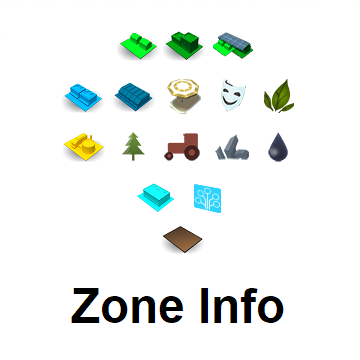
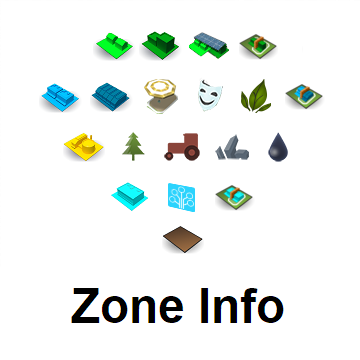
Version 1.7

Changed region(s): [[0.0917, 0.2139, 0.9167, 0.3361], [0.2444, 0.0917, 0.7639, 0.1833], [0.3056, 0.4889, 0.7028, 0.6111]]

diff --git a/ZoneInfoPanel.cs b/ZoneInfoPanel.cs
@@ -27,6 +27,7 @@ namespace ZoneInfo
             ResidentialGenericLow,
             ResidentialGenericHigh,
             ResidentialSelfSuff,
+            ResidentialWallToWall,
             ResidentialSubtotal,
 
             CommercialGenericLow,
@@ -34,6 +35,7 @@ namespace ZoneInfo
             CommercialTourism,
             CommercialLeisure,
             CommercialOrganic,
+            CommercialWallToWall,
             CommercialSubtotal,
 
             IndustrialGeneric,
@@ -45,6 +47,7 @@ namespace ZoneInfo
 
             OfficeGeneric,
             OfficeITCluster,
+            OfficelWallToWall,
             OfficeSubtotal,
 
             Unzoned,
@@ -59,14 +62,16 @@ namespace ZoneInfo
         /// </summary>
         private class SquareCount
         {
+            // get the maximum allowed districts based on the buffer size (or the constant if the buffer size is not available)
             // +1 to make room for entry for Entire City
-            private const int MaxDistricts = DistrictManager.MAX_DISTRICT_COUNT + 1;
+            private static readonly int maxDistricts = ((DistrictManager.exists && DistrictManager.instance.m_districts != null && DistrictManager.instance.m_districts.m_buffer != null) ?
+                DistrictManager.instance.m_districts.m_buffer.Length : DistrictManager.MAX_DISTRICT_COUNT) + 1;
 
             // the 3 counts for a data row
             // index into each array is district ID
-            public int[] built = new int[MaxDistricts];
-            public int[] empty = new int[MaxDistricts];
-            public int[] total = new int[MaxDistricts];
+            public int[] built = new int[maxDistricts];
+            public int[] empty = new int[maxDistricts];
+            public int[] total = new int[maxDistricts];
 
             /// <summary>
             /// increment the counts for the specified district and for the Entire City
@@ -95,7 +100,7 @@ namespace ZoneInfo
             /// </summary>
             public void Copy(SquareCount from)
             {
-                for (int districtID = 0; districtID < MaxDistricts; districtID++)
+                for (int districtID = 0; districtID < maxDistricts; districtID++)
                 {
                     built[districtID] = from.built[districtID];
                     empty[districtID] = from.empty[districtID];
@@ -108,7 +113,7 @@ namespace ZoneInfo
             /// </summary>
             public void Reset()
             {
-                for (int districtID = 0; districtID < MaxDistricts; districtID++)
+                for (int districtID = 0; districtID < maxDistricts; districtID++)
                 {
                     built[districtID] = 0;
                     empty[districtID] = 0;
@@ -270,44 +275,49 @@ namespace ZoneInfo
                 }
 
                 // get DLC flags
-                bool dlcBaseGame    = true;
-                bool dlcAfterDark   = SteamHelper.IsDLCOwned(SteamHelper.DLC.AfterDarkDLC);
-                bool dlcGreenCities = SteamHelper.IsDLCOwned(SteamHelper.DLC.GreenCitiesDLC);
-                
+                bool dlcBaseGame         = true;
+                bool dlcAfterDark        = SteamHelper.IsDLCOwned(SteamHelper.DLC.AfterDarkDLC);
+                bool dlcGreenCities      = SteamHelper.IsDLCOwned(SteamHelper.DLC.GreenCitiesDLC);
+                bool dlcPlazasPromenades = SteamHelper.IsDLCOwned(SteamHelper.DLC.PlazasAndPromenadesDLC);
+
                 // create each UI square count row based on DLC
                 top += 5f;
                 const float SectionSpacing = 10f;
-                if (dlcBaseGame   ) { if (!CreateUISquareCount(Zone.ResidentialGenericLow,  "ResidentialLow",      "Residential Low Density",  zoneAtlas, ref top)) return; }
-                if (dlcBaseGame   ) { if (!CreateUISquareCount(Zone.ResidentialGenericHigh, "ResidentialHigh",     "Residential High Density", zoneAtlas, ref top)) return; }
-                if (dlcGreenCities) { if (!CreateUISquareCount(Zone.ResidentialSelfSuff,    "ResidentialSelfSuff", "Residential Self-Suff",    zoneAtlas, ref top)) return; }
-                if (dlcBaseGame   ) { if (!CreateUISquareCount(Zone.ResidentialSubtotal,    "ResidentialSubTotal", "Residential Subtotal",     zoneAtlas, ref top)) return; }
+                if (dlcBaseGame        ) { if (!CreateUISquareCount(Zone.ResidentialGenericLow,  "ResidentialLow",        "Residential Low Density",  zoneAtlas, ref top)) return; }
+                if (dlcBaseGame        ) { if (!CreateUISquareCount(Zone.ResidentialGenericHigh, "ResidentialHigh",       "Residential High Density", zoneAtlas, ref top)) return; }
+                if (dlcGreenCities     ) { if (!CreateUISquareCount(Zone.ResidentialSelfSuff,    "ResidentialSelfSuff",   "Residential Self-Suff",    zoneAtlas, ref top)) return; }
+                if (dlcPlazasPromenades) { if (!CreateUISquareCount(Zone.ResidentialWallToWall,  "ResidentialWallToWall", "Residential Wall-to-Wall", zoneAtlas, ref top)) return; }
+                if (dlcBaseGame        ) { if (!CreateUISquareCount(Zone.ResidentialSubtotal,    "ResidentialSubTotal",   "Residential Subtotal",     zoneAtlas, ref top)) return; }
 
                 top += SectionSpacing;
-                if (dlcBaseGame   ) { if (!CreateUISquareCount(Zone.CommercialGenericLow,   "CommercialLow",       "Commercial Low Density",   zoneAtlas, ref top)) return; }
-                if (dlcBaseGame   ) { if (!CreateUISquareCount(Zone.CommercialGenericHigh,  "CommercialHigh",      "Commercial High Density",  zoneAtlas, ref top)) return; }
-                if (dlcAfterDark  ) { if (!CreateUISquareCount(Zone.CommercialTourism,      "CommercialTourism",   "Commercial Tourism",       zoneAtlas, ref top)) return; }
-                if (dlcAfterDark  ) { if (!CreateUISquareCount(Zone.CommercialLeisure,      "CommercialLeisure",   "Commercial Leisure",       zoneAtlas, ref top)) return; }
-                if (dlcGreenCities) { if (!CreateUISquareCount(Zone.CommercialOrganic,      "CommercialOrganic",   "Commercial Organic",       zoneAtlas, ref top)) return; }
-                if (dlcBaseGame   ) { if (!CreateUISquareCount(Zone.CommercialSubtotal,     "CommercialSubTotal",  "Commercial Subtotal",      zoneAtlas, ref top)) return; }
+                if (dlcBaseGame        ) { if (!CreateUISquareCount(Zone.CommercialGenericLow,   "CommercialLow",         "Commercial Low Density",   zoneAtlas, ref top)) return; }
+                if (dlcBaseGame        ) { if (!CreateUISquareCount(Zone.CommercialGenericHigh,  "CommercialHigh",        "Commercial High Density",  zoneAtlas, ref top)) return; }
+                if (dlcAfterDark       ) { if (!CreateUISquareCount(Zone.CommercialTourism,      "CommercialTourism",     "Commercial Tourism",       zoneAtlas, ref top)) return; }
+                if (dlcAfterDark       ) { if (!CreateUISquareCount(Zone.CommercialLeisure,      "CommercialLeisure",     "Commercial Leisure",       zoneAtlas, ref top)) return; }
+                if (dlcGreenCities     ) { if (!CreateUISquareCount(Zone.CommercialOrganic,      "CommercialOrganic",     "Commercial Organic",       zoneAtlas, ref top)) return; }
+                if (dlcPlazasPromenades) { if (!CreateUISquareCount(Zone.CommercialWallToWall,   "CommercialWallToWall",  "Commercial Wall-to-Wall",  zoneAtlas, ref top)) return; }
+                if (dlcBaseGame        ) { if (!CreateUISquareCount(Zone.CommercialSubtotal,     "CommercialSubTotal",    "Commercial Subtotal",      zoneAtlas, ref top)) return; }
 
                 top += SectionSpacing;
-                if (dlcBaseGame   ) { if (!CreateUISquareCount(Zone.IndustrialGeneric,      "IndustrialGeneric",   "Industrial Generic",       zoneAtlas, ref top)) return; }
-                if (dlcBaseGame   ) { if (!CreateUISquareCount(Zone.IndustrialForestry,     "IndustrialForestry",  "Industrial Forestry",      zoneAtlas, ref top)) return; }
-                if (dlcBaseGame   ) { if (!CreateUISquareCount(Zone.IndustrialFarming,      "IndustrialFarming",   "Industrial Farming",       zoneAtlas, ref top)) return; }
-                if (dlcBaseGame   ) { if (!CreateUISquareCount(Zone.IndustrialOre,          "IndustrialOre",       "Industrial Ore",           zoneAtlas, ref top)) return; }
-                if (dlcBaseGame   ) { if (!CreateUISquareCount(Zone.IndustrialOil,          "IndustrialOil",       "Industrial Oil",           zoneAtlas, ref top)) return; }
-                if (dlcBaseGame   ) { if (!CreateUISquareCount(Zone.IndustrialSubtotal,     "IndustrialSubTotal",  "Industrial Subtotal",      zoneAtlas, ref top)) return; }
+                if (dlcBaseGame        ) { if (!CreateUISquareCount(Zone.IndustrialGeneric,      "IndustrialGeneric",     "Industrial Generic",       zoneAtlas, ref top)) return; }
+                if (dlcBaseGame        ) { if (!CreateUISquareCount(Zone.IndustrialForestry,     "IndustrialForestry",    "Industrial Forestry",      zoneAtlas, ref top)) return; }
+                if (dlcBaseGame        ) { if (!CreateUISquareCount(Zone.IndustrialFarming,      "IndustrialFarming",     "Industrial Farming",       zoneAtlas, ref top)) return; }
+                if (dlcBaseGame        ) { if (!CreateUISquareCount(Zone.IndustrialOre,          "IndustrialOre",         "Industrial Ore",           zoneAtlas, ref top)) return; }
+                if (dlcBaseGame        ) { if (!CreateUISquareCount(Zone.IndustrialOil,          "IndustrialOil",         "Industrial Oil",           zoneAtlas, ref top)) return; }
+                if (dlcBaseGame        ) { if (!CreateUISquareCount(Zone.IndustrialSubtotal,     "IndustrialSubTotal",    "Industrial Subtotal",      zoneAtlas, ref top)) return; }
 
                 top += SectionSpacing;
-                if (dlcBaseGame   ) { if (!CreateUISquareCount(Zone.OfficeGeneric,          "OfficeGeneric",       "Office Generic",           zoneAtlas, ref top)) return; }
-                if (dlcGreenCities) { if (!CreateUISquareCount(Zone.OfficeITCluster,        "OfficeITCluster",     "Office IT Cluster",        zoneAtlas, ref top)) return; }
-                if (dlcGreenCities) { if (!CreateUISquareCount(Zone.OfficeSubtotal,         "OfficeSubTotal",      "Office Subtotal",          zoneAtlas, ref top)) return; }
+                if (dlcBaseGame        ) { if (!CreateUISquareCount(Zone.OfficeGeneric,          "OfficeGeneric",         "Office Generic",           zoneAtlas, ref top)) return; }
+                if (dlcGreenCities     ) { if (!CreateUISquareCount(Zone.OfficeITCluster,        "OfficeITCluster",       "Office IT Cluster",        zoneAtlas, ref top)) return; }
+                if (dlcPlazasPromenades) { if (!CreateUISquareCount(Zone.OfficelWallToWall,      "OfficeWallToWall",      "Office Wall-to-Wall",      zoneAtlas, ref top)) return; }
+                if (dlcGreenCities ||
+                    dlcPlazasPromenades) { if (!CreateUISquareCount(Zone.OfficeSubtotal,         "OfficeSubTotal",        "Office Subtotal",          zoneAtlas, ref top)) return; }
 
                 top += SectionSpacing;
-                if (dlcBaseGame   ) { if (!CreateUISquareCount(Zone.Unzoned,                "Unzoned",             "Unzoned",                  zoneAtlas, ref top)) return; }
+                if (dlcBaseGame        ) { if (!CreateUISquareCount(Zone.Unzoned,                "Unzoned",               "Unzoned",                  zoneAtlas, ref top)) return; }
 
                 top += SectionSpacing;
-                if (dlcBaseGame   ) { if (!CreateUISquareCount(Zone.Total,                  "Total",               "Total",                    zoneAtlas, ref top)) return; }
+                if (dlcBaseGame        ) { if (!CreateUISquareCount(Zone.Total,                  "Total",                 "Total",                    zoneAtlas, ref top)) return; }
 
                 // add the Include Unzoned checkbox, but hidden
                 if (!CreateCheckbox(ref _includeUnzonedCheckbox, ref _includeUnzonedLabel, "Include", _uiSquareCounts[(int)Zone.Unzoned], 110f, 60f)) return;
@@ -417,7 +427,7 @@ namespace ZoneInfo
         /// </summary>
         public static UITextureAtlas GetZoneAtlas()
         {
-            // load activation button texture from the DLL
+            // load zone image texture from the DLL
             int zoneImageCount = ZoneCount * 2;
             string resourceName = typeof(ZoneInfoPanel).Namespace + ".ZoneImages.png";
             Texture2D zoneImages = TextureUtil.GetDllResource(resourceName, zoneImageCount * 40, 40);
@@ -465,7 +475,7 @@ namespace ZoneInfo
         }
 
         /// <summary>
-        /// create a square count row in the specified SquareCountUI
+        /// create a square count row in the specified UISquareCount
         /// </summary>
         private bool CreateUISquareCount(UISquareCount uiSquareCount, string namePrefix, string text, ref float top)
         {
@@ -544,7 +554,7 @@ namespace ZoneInfo
             line.spriteName = "EmptySprite";
             line.color = TextColorNormal;
             line.isVisible = true;
-            
+
             // success
             return true;
         }
@@ -741,7 +751,7 @@ namespace ZoneInfo
                     instance.DistrictsVisible = false;
                 }
 
-                // show or hide zones 
+                // show or hide zones
                 if (currentInfoViewMode == InfoManager.InfoMode.None)
                 {
                     // no info mode, check tool type
@@ -841,19 +851,21 @@ namespace ZoneInfo
                                     {
                                         case ItemClass.Zone.ResidentialLow:
                                         case ItemClass.Zone.ResidentialHigh:
-                                            if      ((specialization & DistrictPolicies.Specialization.Selfsufficient) != 0) { countToIncrement = Zone.ResidentialSelfSuff;    }
-                                            else if (zone == ItemClass.Zone.ResidentialLow)                                  { countToIncrement = Zone.ResidentialGenericLow;  }
-                                            else if (zone == ItemClass.Zone.ResidentialHigh)                                 { countToIncrement = Zone.ResidentialGenericHigh; }
+                                            if      ((specialization & DistrictPolicies.Specialization.Selfsufficient       ) != 0) { countToIncrement = Zone.ResidentialSelfSuff;    }
+                                            else if ((specialization & DistrictPolicies.Specialization.ResidentialWallToWall) != 0) { countToIncrement = Zone.ResidentialWallToWall;  }
+                                            else if (zone == ItemClass.Zone.ResidentialLow)                                         { countToIncrement = Zone.ResidentialGenericLow;  }
+                                            else if (zone == ItemClass.Zone.ResidentialHigh)                                        { countToIncrement = Zone.ResidentialGenericHigh; }
                                             subtotalToIncrement = Zone.ResidentialSubtotal;
                                             break;
 
                                         case ItemClass.Zone.CommercialLow:
                                         case ItemClass.Zone.CommercialHigh:
-                                            if      ((specialization & DistrictPolicies.Specialization.Tourist) != 0) { countToIncrement = Zone.CommercialTourism;     }
-                                            else if ((specialization & DistrictPolicies.Specialization.Leisure) != 0) { countToIncrement = Zone.CommercialLeisure;     }
-                                            else if ((specialization & DistrictPolicies.Specialization.Organic) != 0) { countToIncrement = Zone.CommercialOrganic;     }
-                                            else if (zone == ItemClass.Zone.CommercialLow)                            { countToIncrement = Zone.CommercialGenericLow;  }
-                                            else if (zone == ItemClass.Zone.CommercialHigh)                           { countToIncrement = Zone.CommercialGenericHigh; }
+                                            if      ((specialization & DistrictPolicies.Specialization.Tourist             ) != 0) { countToIncrement = Zone.CommercialTourism;     }
+                                            else if ((specialization & DistrictPolicies.Specialization.Leisure             ) != 0) { countToIncrement = Zone.CommercialLeisure;     }
+                                            else if ((specialization & DistrictPolicies.Specialization.Organic             ) != 0) { countToIncrement = Zone.CommercialOrganic;     }
+                                            else if ((specialization & DistrictPolicies.Specialization.CommercialWallToWall) != 0) { countToIncrement = Zone.CommercialWallToWall;  }
+                                            else if (zone == ItemClass.Zone.CommercialLow)                                         { countToIncrement = Zone.CommercialGenericLow;  }
+                                            else if (zone == ItemClass.Zone.CommercialHigh)                                        { countToIncrement = Zone.CommercialGenericHigh; }
                                             subtotalToIncrement = Zone.CommercialSubtotal;
                                             break;
 
@@ -867,8 +879,9 @@ namespace ZoneInfo
                                             break;
 
                                         case ItemClass.Zone.Office:
-                                            if ((specialization & DistrictPolicies.Specialization.Hightech) != 0) { countToIncrement = Zone.OfficeITCluster; }
-                                            else                                                                  { countToIncrement = Zone.OfficeGeneric;   }
+                                            if      ((specialization & DistrictPolicies.Specialization.Hightech        ) != 0) { countToIncrement = Zone.OfficeITCluster;   }
+                                            else if ((specialization & DistrictPolicies.Specialization.OfficeWallToWall) != 0) { countToIncrement = Zone.OfficelWallToWall; }
+                                            else                                                                               { countToIncrement = Zone.OfficeGeneric;   }
                                             subtotalToIncrement = Zone.OfficeSubtotal;
                                             break;
 
@@ -910,28 +923,31 @@ namespace ZoneInfo
                                                     switch (buildingSubservice)
                                                     {
                                                         case ItemClass.SubService.ResidentialLowEco:
-                                                        case ItemClass.SubService.ResidentialHighEco:   countToIncrement = Zone.ResidentialSelfSuff;    subtotalToIncrement = Zone.ResidentialSubtotal; break;
-                                                        case ItemClass.SubService.ResidentialLow:       countToIncrement = Zone.ResidentialGenericLow;  subtotalToIncrement = Zone.ResidentialSubtotal; break;
-                                                        case ItemClass.SubService.ResidentialHigh:      countToIncrement = Zone.ResidentialGenericHigh; subtotalToIncrement = Zone.ResidentialSubtotal; break;
+                                                        case ItemClass.SubService.ResidentialHighEco:    countToIncrement = Zone.ResidentialSelfSuff;    subtotalToIncrement = Zone.ResidentialSubtotal; break;
+                                                        case ItemClass.SubService.ResidentialWallToWall: countToIncrement = Zone.ResidentialWallToWall;  subtotalToIncrement = Zone.ResidentialSubtotal; break;
+                                                        case ItemClass.SubService.ResidentialLow:        countToIncrement = Zone.ResidentialGenericLow;  subtotalToIncrement = Zone.ResidentialSubtotal; break;
+                                                        case ItemClass.SubService.ResidentialHigh:       countToIncrement = Zone.ResidentialGenericHigh; subtotalToIncrement = Zone.ResidentialSubtotal; break;
 
-                                                        case ItemClass.SubService.CommercialTourist:    countToIncrement = Zone.CommercialTourism;      subtotalToIncrement = Zone.CommercialSubtotal;  break;
-                                                        case ItemClass.SubService.CommercialLeisure:    countToIncrement = Zone.CommercialLeisure;      subtotalToIncrement = Zone.CommercialSubtotal;  break;
-                                                        case ItemClass.SubService.CommercialEco:        countToIncrement = Zone.CommercialOrganic;      subtotalToIncrement = Zone.CommercialSubtotal;  break;
-                                                        case ItemClass.SubService.CommercialLow:        countToIncrement = Zone.CommercialGenericLow;   subtotalToIncrement = Zone.CommercialSubtotal;  break;
-                                                        case ItemClass.SubService.CommercialHigh:       countToIncrement = Zone.CommercialGenericHigh;  subtotalToIncrement = Zone.CommercialSubtotal;  break;
+                                                        case ItemClass.SubService.CommercialTourist:     countToIncrement = Zone.CommercialTourism;      subtotalToIncrement = Zone.CommercialSubtotal;  break;
+                                                        case ItemClass.SubService.CommercialLeisure:     countToIncrement = Zone.CommercialLeisure;      subtotalToIncrement = Zone.CommercialSubtotal;  break;
+                                                        case ItemClass.SubService.CommercialEco:         countToIncrement = Zone.CommercialOrganic;      subtotalToIncrement = Zone.CommercialSubtotal;  break;
+                                                        case ItemClass.SubService.CommercialWallToWall:  countToIncrement = Zone.CommercialWallToWall;   subtotalToIncrement = Zone.CommercialSubtotal;  break;
+                                                        case ItemClass.SubService.CommercialLow:         countToIncrement = Zone.CommercialGenericLow;   subtotalToIncrement = Zone.CommercialSubtotal;  break;
+                                                        case ItemClass.SubService.CommercialHigh:        countToIncrement = Zone.CommercialGenericHigh;  subtotalToIncrement = Zone.CommercialSubtotal;  break;
 
                                                         case ItemClass.SubService.PlayerIndustryForestry:
-                                                        case ItemClass.SubService.IndustrialForestry:   countToIncrement = Zone.IndustrialForestry;     subtotalToIncrement = Zone.IndustrialSubtotal;  break;
+                                                        case ItemClass.SubService.IndustrialForestry:    countToIncrement = Zone.IndustrialForestry;     subtotalToIncrement = Zone.IndustrialSubtotal;  break;
                                                         case ItemClass.SubService.PlayerIndustryFarming:
-                                                        case ItemClass.SubService.IndustrialFarming:    countToIncrement = Zone.IndustrialFarming;      subtotalToIncrement = Zone.IndustrialSubtotal;  break;
+                                                        case ItemClass.SubService.IndustrialFarming:     countToIncrement = Zone.IndustrialFarming;      subtotalToIncrement = Zone.IndustrialSubtotal;  break;
                                                         case ItemClass.SubService.PlayerIndustryOre:
-                                                        case ItemClass.SubService.IndustrialOre:        countToIncrement = Zone.IndustrialOre;          subtotalToIncrement = Zone.IndustrialSubtotal;  break;
+                                                        case ItemClass.SubService.IndustrialOre:         countToIncrement = Zone.IndustrialOre;          subtotalToIncrement = Zone.IndustrialSubtotal;  break;
                                                         case ItemClass.SubService.PlayerIndustryOil:
-                                                        case ItemClass.SubService.IndustrialOil:        countToIncrement = Zone.IndustrialOil;          subtotalToIncrement = Zone.IndustrialSubtotal;  break;
-                                                        case ItemClass.SubService.IndustrialGeneric:    countToIncrement = Zone.IndustrialGeneric;      subtotalToIncrement = Zone.IndustrialSubtotal;  break;
+                                                        case ItemClass.SubService.IndustrialOil:         countToIncrement = Zone.IndustrialOil;          subtotalToIncrement = Zone.IndustrialSubtotal;  break;
+                                                        case ItemClass.SubService.IndustrialGeneric:     countToIncrement = Zone.IndustrialGeneric;      subtotalToIncrement = Zone.IndustrialSubtotal;  break;
 
-                                                        case ItemClass.SubService.OfficeHightech:       countToIncrement = Zone.OfficeITCluster;        subtotalToIncrement = Zone.OfficeSubtotal;      break;
-                                                        case ItemClass.SubService.OfficeGeneric:        countToIncrement = Zone.OfficeGeneric;          subtotalToIncrement = Zone.OfficeSubtotal;      break;
+                                                        case ItemClass.SubService.OfficeHightech:        countToIncrement = Zone.OfficeITCluster;        subtotalToIncrement = Zone.OfficeSubtotal;      break;
+                                                        case ItemClass.SubService.OfficeWallToWall:      countToIncrement = Zone.OfficelWallToWall;      subtotalToIncrement = Zone.OfficeSubtotal;      break;
+                                                        case ItemClass.SubService.OfficeGeneric:         countToIncrement = Zone.OfficeGeneric;          subtotalToIncrement = Zone.OfficeSubtotal;      break;
 
                                                         default:
                                                             // building is not a subservice being counted
@@ -1210,10 +1226,14 @@ namespace ZoneInfo
                             case Zone.ResidentialSelfSuff:
                                 showNormal = instance.Unlocked(DistrictPolicies.Policies.Selfsufficient);
                                 break;
+                            case Zone.ResidentialWallToWall:
+                                showNormal = instance.Unlocked(DistrictPolicies.Policies.ResidentialWallToWall);
+                                break;
                             case Zone.ResidentialSubtotal:
-                                showNormal = instance.Unlocked(ItemClass.Zone.ResidentialLow) || 
-                                             instance.Unlocked(ItemClass.Zone.ResidentialHigh) || 
-                                             instance.Unlocked(DistrictPolicies.Policies.Selfsufficient);
+                                showNormal = instance.Unlocked(ItemClass.Zone.ResidentialLow) ||
+                                             instance.Unlocked(ItemClass.Zone.ResidentialHigh) ||
+                                             instance.Unlocked(DistrictPolicies.Policies.Selfsufficient) ||
+                                             instance.Unlocked(DistrictPolicies.Policies.ResidentialWallToWall);
                                 break;
 
                             case Zone.CommercialGenericLow:
@@ -1231,12 +1251,16 @@ namespace ZoneInfo
                             case Zone.CommercialOrganic:
                                 showNormal = instance.Unlocked(DistrictPolicies.Policies.Organic);
                                 break;
+                            case Zone.CommercialWallToWall:
+                                showNormal = instance.Unlocked(DistrictPolicies.Policies.CommercialWallToWall);
+                                break;
                             case Zone.CommercialSubtotal:
                                 showNormal = instance.Unlocked(ItemClass.Zone.CommercialLow) ||
                                              instance.Unlocked(ItemClass.Zone.CommercialHigh) ||
                                              instance.Unlocked(DistrictPolicies.Policies.Tourist) ||
                                              instance.Unlocked(DistrictPolicies.Policies.Leisure) ||
-                                             instance.Unlocked(DistrictPolicies.Policies.Organic);
+                                             instance.Unlocked(DistrictPolicies.Policies.Organic) ||
+                                             instance.Unlocked(DistrictPolicies.Policies.CommercialWallToWall);
                                 break;
 
                             case Zone.IndustrialGeneric:
@@ -1268,9 +1292,13 @@ namespace ZoneInfo
                             case Zone.OfficeITCluster:
                                 showNormal = instance.Unlocked(DistrictPolicies.Policies.Hightech);
                                 break;
+                            case Zone.OfficelWallToWall:
+                                showNormal = instance.Unlocked(DistrictPolicies.Policies.OfficeWallToWall);
+                                break;
                             case Zone.OfficeSubtotal:
                                 showNormal = instance.Unlocked(ItemClass.Zone.Office) ||
-                                             instance.Unlocked(DistrictPolicies.Policies.Hightech);
+                                             instance.Unlocked(DistrictPolicies.Policies.Hightech) ||
+                                             instance.Unlocked(DistrictPolicies.Policies.OfficeWallToWall);
                                 break;
 
                             case Zone.Unzoned:

diff --git a/Properties/AssemblyInfo.cs b/Properties/AssemblyInfo.cs
@@ -9,7 +9,7 @@ using System.Runtime.InteropServices;
 [assembly: AssemblyConfiguration("")]
 [assembly: AssemblyCompany("")]
 [assembly: AssemblyProduct("Zone Info")]
-[assembly: AssemblyCopyright("Copyright © 2021")]
+[assembly: AssemblyCopyright("Copyright © 2021-2022")]
 [assembly: AssemblyTrademark("")]
 [assembly: AssemblyCulture("")]
 
@@ -21,7 +21,7 @@ using System.Runtime.InteropServices;
 // The AssemblyVersion has the format "{Major}.{Minor}.{Build}.{Revision}".
 // The form "{Major}.{Minor}.*" will automatically update the build and revision.
 // The form "{Major}.{Minor}.{Build}.*" will update just the revision.
-[assembly: AssemblyVersion("1.6.*")]
+[assembly: AssemblyVersion("1.7.*")]
 
 // The AssemblyFileVersion is commented out which causes the AssemblyFileVersion to be the same as the AssemblyVersion, as desired.
 //[assembly: AssemblyFileVersion("1.0.0.0")]
